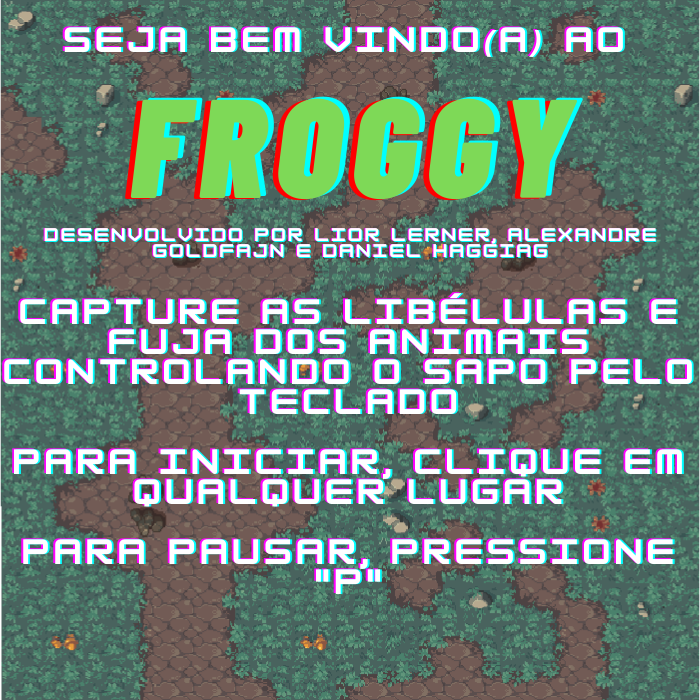
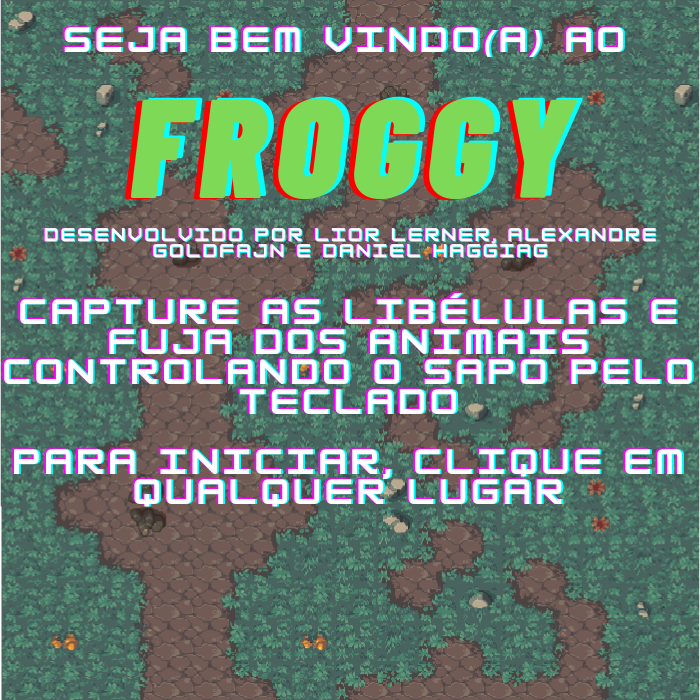
Finalização e ultima revisão

Changed region(s): [[0.24, 0.75, 0.96, 0.84], [0.03, 0.75, 0.21, 0.81]]

diff --git a/Jogo.py b/Jogo.py
@@ -47,29 +47,6 @@ def draw_lives(surf, x, y, lives, img):
         img_rect.y = y
         surf.blit(img, img_rect)
 
-#pausa
-def paused():
-    paused = True
-    game = False
-    while paused:
-        for event in pygame.get():
-            if event.type == QUIT:
-                pygame.quit()
-                quit()
-        if event.type == pygame.KEYDOWN:
-            if event.key == K_c:
-                paused = False
-                game = True
-            elif event.key == K_q:
-                pygame.quit()
-                quit()
-
-        window.fill((0,0,0))
-        clock.tick(30)
-        window.blit(background,(0,0))
-        pygame.display.update()
-        clock.tick(5)
-
 
 # IMAGENS
 imagem_libelula = pygame.image.load(os.path.join(pasta_imagens, "libelula.png")).convert()
@@ -213,9 +190,6 @@ while game:
             all_sprites.add(Passaros)    
         
         #se apertar a tecla p o jogo deve rodar a função de pausar.
-    if event.type == pygame.KEYDOWN:
-        if event.key == pygame.K_p:
-            paused()
     #draw:
     window.fill((branco))
     window.blit(background, (0, 0))
